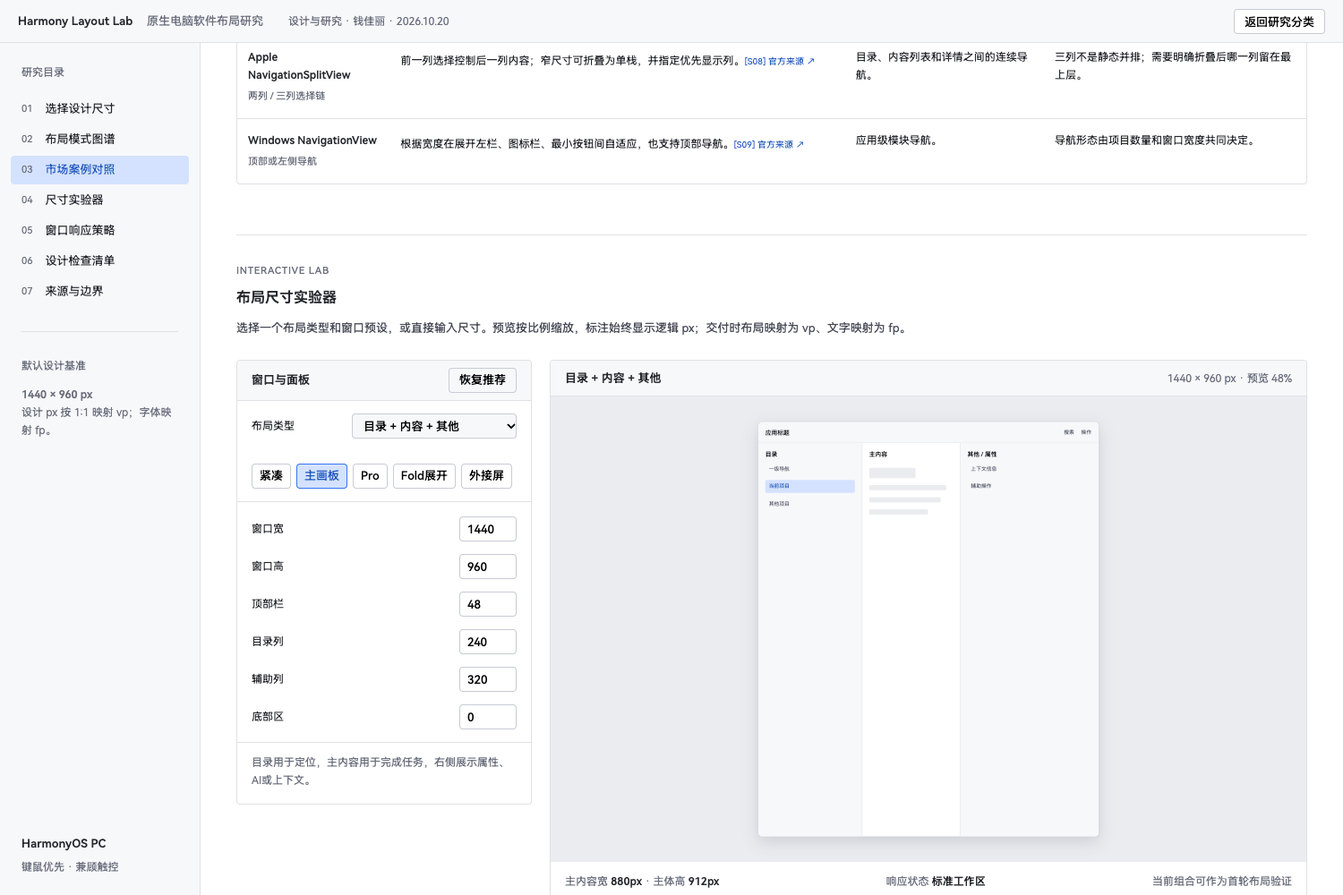
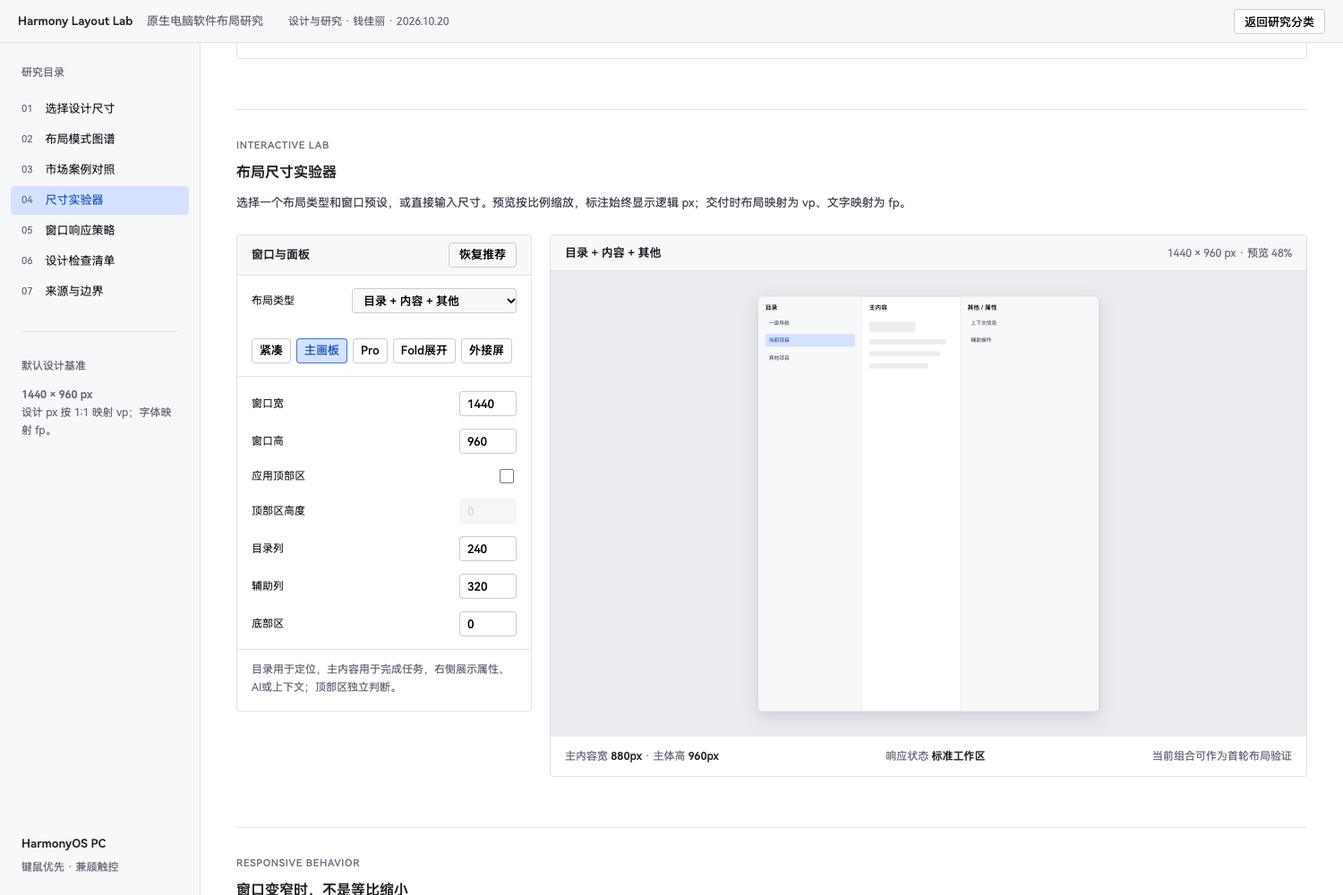
Make application top region optional in layout research

diff --git a/analysis/harmony-desktop-layouts/app.js b/analysis/harmony-desktop-layouts/app.js
@@ -3,22 +3,22 @@
   const R=window.LAYOUT_RESEARCH;
   const $=(s,e=document)=>e.querySelector(s);
   const esc=s=>String(s).replace(/[&<>"']/g,c=>({'&':'&amp;','<':'&lt;','>':'&gt;','"':'&quot;',"'":'&#39;'}[c]));
-  const wire=id=>`<div class="wire" data-layout="${id}" aria-hidden="true"><i class="wtop"></i><i class="wleft"></i><i class="wmain"></i><i class="wright"></i><i class="wbottom"></i></div>`;
+  const wire=p=>`<div class="wire${p.top==='shown'?'':' no-app-top'}" data-layout="${p.id}" aria-hidden="true"><i class="wtop"></i><i class="wleft"></i><i class="wmain"></i><i class="wright"></i><i class="wbottom"></i></div>`;
 
-  $('#patternGrid').innerHTML=R.patterns.map(p=>`<article class="pattern-card"><div class="pattern-visual">${wire(p.id)}</div><div class="pattern-copy"><header><h3>${esc(p.name)}</h3><span class="tag">${esc(p.tag)}</span></header><p><strong>常见：</strong>${esc(p.examples)}</p><p>${esc(p.use)}</p><p><strong>注意：</strong>${esc(p.risk)}</p></div></article>`).join('');
+  $('#patternGrid').innerHTML=R.patterns.map(p=>`<article class="pattern-card"><div class="pattern-visual">${wire(p)}</div><div class="pattern-copy"><header><h3>${esc(p.name)}</h3><span class="tag">${esc(p.tag)}</span></header><p><strong>常见：</strong>${esc(p.examples)}</p><p>${esc(p.use)}</p><p><strong>应用顶部区：</strong>${p.top==='shown'?'此模式示意开启':'默认不占整行，可按任务开启'}</p><p><strong>注意：</strong>${esc(p.risk)}</p></div></article>`).join('');
   const byId=Object.fromEntries(R.sources.map(s=>[s.id,s]));
   $('#comparisonRows').innerHTML=R.products.map(p=>`<tr><td><strong>${esc(p.name)}</strong><span class="evidence">${esc(p.type)}</span></td><td>${esc(p.structure)}<a class="source-pill" href="${byId[p.source].url}" target="_blank" rel="noreferrer">[${p.source}] 官方来源 ↗</a></td><td>${esc(p.task)}</td><td>${esc(p.lesson)}</td></tr>`).join('');
   $('#sourceList').innerHTML=R.sources.map(s=>`<article class="source-item"><span class="source-code">${s.id}</span><div><h3>${esc(s.title)} <small>${esc(s.org)}</small></h3><p>${esc(s.note)}</p></div><a class="button" href="${s.url}" target="_blank" rel="noreferrer">查看来源</a></article>`).join('');
 
   const defaults={
     top:{name:'顶部栏 + 内容',top:48,left:0,right:0,bottom:0},
-    left:{name:'左侧导航 + 内容',top:48,left:240,right:0,bottom:0},
-    list:{name:'目录 + 列表 + 详情',top:48,left:220,right:420,bottom:0},
-    three:{name:'目录 + 内容 + 其他',top:48,left:240,right:320,bottom:0},
+    left:{name:'左侧导航 + 内容',top:0,left:240,right:0,bottom:0},
+    list:{name:'目录 + 列表 + 详情',top:0,left:220,right:420,bottom:0},
+    three:{name:'目录 + 内容 + 其他',top:0,left:240,right:320,bottom:0},
     workbench:{name:'IDE 工作台',top:44,left:240,right:320,bottom:200},
-    canvas:{name:'画布 + 双侧面板',top:48,left:240,right:320,bottom:0},
+    canvas:{name:'画布 + 双侧面板',top:0,left:240,right:320,bottom:0},
     dashboard:{name:'顶部栏 + 卡片网格',top:48,left:0,right:0,bottom:0},
-    settings:{name:'设置目录 + 单列内容',top:48,left:220,right:0,bottom:0}
+    settings:{name:'设置目录 + 单列内容',top:0,left:220,right:0,bottom:0}
   };
   const type=$('#layoutType');
   type.innerHTML=R.patterns.map(p=>`<option value="${p.id}">${esc(p.name)}</option>`).join('');
@@ -26,15 +26,18 @@
   $('#presetButtons').innerHTML=R.presets.map(p=>`<button class="button" type="button" data-preset="${p.id}">${esc(p.name)}</button>`).join('');
 
   const fields={width:$('#windowWidth'),height:$('#windowHeight'),top:$('#topHeight'),left:$('#leftWidth'),right:$('#rightWidth'),bottom:$('#bottomHeight')};
+  const topEnabled=$('#topEnabled');
   const frame=$('#layoutFrame'),stage=$('#layoutStage');
-  let state={width:1440,height:960,top:48,left:240,right:320,bottom:0};
+  let state={width:1440,height:960,top:0,left:240,right:320,bottom:0};
+  let lastTop=48;
   function read(){Object.keys(fields).forEach(k=>state[k]=Math.max(0,Number(fields[k].value)||0));}
-  function write(){Object.keys(fields).forEach(k=>fields[k].value=state[k]);}
+  function write(){Object.keys(fields).forEach(k=>fields[k].value=state[k]);topEnabled.checked=state.top>0;fields.top.disabled=!topEnabled.checked;}
   function applyType(reset=true){
     const d=defaults[type.value];
     if(reset) Object.assign(state,{top:d.top,left:d.left,right:d.right,bottom:d.bottom});
     $('#previewTitle').textContent=d.name;
     frame.dataset.layout=type.value;
+    frame.querySelector('.lf-top').hidden=!state.top;
     frame.querySelector('.lf-left').hidden=!state.left;
     frame.querySelector('.lf-right').hidden=!state.right;
     frame.querySelector('.lf-bottom').hidden=!state.bottom;
@@ -46,7 +49,7 @@
     const center=Math.max(0,state.width-state.left-state.right);
     const body=Math.max(0,state.height-state.top-state.bottom);
     frame.style.setProperty('--ww',state.width);frame.style.setProperty('--wh',state.height);frame.style.setProperty('--th',state.top);frame.style.setProperty('--lw',state.left);frame.style.setProperty('--rw',state.right);frame.style.setProperty('--bh',state.bottom);
-    frame.querySelector('.lf-left').hidden=!state.left;frame.querySelector('.lf-right').hidden=!state.right;frame.querySelector('.lf-bottom').hidden=!state.bottom;
+    frame.querySelector('.lf-top').hidden=!state.top;frame.querySelector('.lf-left').hidden=!state.left;frame.querySelector('.lf-right').hidden=!state.right;frame.querySelector('.lf-bottom').hidden=!state.bottom;
     const scale=Math.min((stage.clientWidth-56)/state.width,(stage.clientHeight-56)/state.height,1);
     frame.style.transform=`scale(${Math.max(.15,scale)})`;
     $('#previewSize').textContent=`${state.width} × ${state.height} px · 预览 ${Math.round(scale*100)}%`;
@@ -59,9 +62,10 @@
     document.querySelectorAll('[data-preset]').forEach(b=>{const p=R.presets.find(x=>x.id===b.dataset.preset);b.setAttribute('aria-pressed',p.width===state.width&&p.height===state.height)});
   }
   type.addEventListener('change',()=>applyType(true));
-  Object.values(fields).forEach(i=>i.addEventListener('input',render));
+  Object.values(fields).forEach(i=>i.addEventListener('input',()=>{render();if(state.top>0)lastTop=state.top;write()}));
+  topEnabled.addEventListener('change',()=>{if(topEnabled.checked){state.top=lastTop||48}else{if(state.top>0)lastTop=state.top;state.top=0}write();render()});
   $('#presetButtons').addEventListener('click',e=>{const b=e.target.closest('[data-preset]');if(!b)return;const p=R.presets.find(x=>x.id===b.dataset.preset);state.width=p.width;state.height=p.height;write();render()});
-  $('#resetLayout').addEventListener('click',()=>{state={width:1440,height:960,top:48,left:240,right:320,bottom:0};type.value='three';applyType(false)});
+  $('#resetLayout').addEventListener('click',()=>{state={width:1440,height:960,top:0,left:240,right:320,bottom:0};lastTop=48;type.value='three';applyType(false)});
   window.addEventListener('resize',render);
   applyType(false);
 

diff --git a/analysis/harmony-desktop-layouts/index.html b/analysis/harmony-desktop-layouts/index.html
@@ -41,7 +41,7 @@
         <div class="page-heading">
           <p class="eyebrow">DESIGN RESEARCH / 03</p>
           <h1>鸿蒙电脑原生应用布局怎么选</h1>
-          <p>从窗口任务出发选择顶部栏、侧栏、内容区和辅助区；用一个主画板建立方案，用窗口断点验证变化。</p>
+          <p>先确定内容区是一列、两列还是三列，再判断是否需要应用顶部区；用一个主画板建立方案，用窗口断点验证变化。</p>
         </div>
         <div class="metadata"><span>8 类布局模式</span><span>6 个市场产品参考</span><span>尺寸可自定义</span></div>
 
@@ -57,10 +57,10 @@
           <a class="button primary" href="#lab">打开尺寸实验器</a>
         </div>
 
-        <h2 class="subheading">主画板的推荐骨架</h2>
-        <div class="base-anatomy sheet" aria-label="1440乘960布局尺寸示意">
+        <h2 class="subheading">主画板的推荐骨架（示意开启顶部区）</h2>
+        <div class="base-anatomy sheet" aria-label="1440乘960布局尺寸示意，应用顶部区可选">
           <div class="mini-window anatomy-window">
-            <div class="mini-top">顶部栏 48</div>
+            <div class="mini-top">可选应用顶部区 · 0 / 48</div>
             <div class="mini-body">
               <div class="mini-nav">目录<br><b>240</b></div>
               <div class="mini-main">主内容<br><b>自适应，建议不小于 640</b></div>
@@ -69,7 +69,8 @@
             <div class="mini-status">状态栏 24 · 可选</div>
           </div>
           <div class="base-notes">
-            <p><strong>顶部栏</strong><span>40–48 vp。承载窗口级标题、全局操作和少量高频命令。</span></p>
+            <p><strong>系统窗口区</strong><span>由系统窗口框架管理，不等于应用必须再放一条顶部栏。</span></p>
+            <p><strong>应用顶部区</strong><span>可选，关闭为 0；需要全局导航或命令时建议 40–48 vp，也可改用侧栏、局部或浮动工具条。</span></p>
             <p><strong>目录列</strong><span>默认 240 vp，可调范围 200–320；超过范围应考虑层级或内容问题。</span></p>
             <p><strong>主内容</strong><span>获得剩余空间，是布局中唯一必须持续伸缩的区域。</span></p>
             <p><strong>辅助列</strong><span>默认 320 vp，可调范围 280–420；窗口变窄时优先折叠。</span></p>
@@ -102,7 +103,8 @@
             <div class="control-grid">
               <label>窗口宽<input class="input short" id="windowWidth" type="number" min="800" max="2560" step="4"></label>
               <label>窗口高<input class="input short" id="windowHeight" type="number" min="600" max="1600" step="4"></label>
-              <label>顶部栏<input class="input short" id="topHeight" type="number" min="0" max="96" step="4"></label>
+              <label class="toggle-row">应用顶部区<input id="topEnabled" type="checkbox" aria-label="显示应用级导航或命令区"></label>
+              <label>顶部区高度<input class="input short" id="topHeight" type="number" min="0" max="96" step="4"></label>
               <label>目录列<input class="input short" id="leftWidth" type="number" min="0" max="480" step="4"></label>
               <label>辅助列<input class="input short" id="rightWidth" type="number" min="0" max="560" step="4"></label>
               <label>底部区<input class="input short" id="bottomHeight" type="number" min="0" max="480" step="4"></label>
@@ -139,7 +141,7 @@
       <section id="guidelines" class="chapter">
         <div class="section-intro"><span class="kicker">DESIGN CHECKLIST</span><h2>从选择布局到交付</h2></div>
         <div class="decision-grid">
-          <article class="sheet"><div class="sheet-head"><strong>1 · 看信息关系</strong></div><ul><li>页面之间平级且不多：顶部导航。</li><li>模块超过 5 个或层级较深：左侧导航。</li><li>选择上一列决定下一列：两列或三列。</li><li>编辑对象需要属性：主内容 + 右侧检查器。</li></ul></article>
+          <article class="sheet"><div class="sheet-head"><strong>1 · 看信息关系</strong></div><ul><li>页面之间平级且不多：可选择顶部导航。</li><li>模块超过 5 个或层级较深：左侧导航。</li><li>选择上一列决定下一列：两列或三列。</li><li>先定列关系，再独立判断是否需要应用顶部区。</li></ul></article>
           <article class="sheet"><div class="sheet-head"><strong>2 · 定区域优先级</strong></div><ul><li>主内容必须持续可见并获得剩余空间。</li><li>目录可折叠，但要保留恢复入口与状态。</li><li>右侧辅助区通常比目录更早折叠。</li><li>面板宽度可调时要设置合理最小值。</li></ul></article>
           <article class="sheet"><div class="sheet-head"><strong>3 · 做四档验证</strong></div><ul><li>1440×960：主设计。</li><li>1236×824：紧凑压力测试。</li><li>1648×1236：展开增值。</li><li>1920×1080：外接显示器。</li></ul></article>
           <article class="sheet"><div class="sheet-head"><strong>4 · 交付开发</strong></div><ul><li>设计 px 作为逻辑单位。</li><li>布局、间距、圆角映射为 vp。</li><li>文字映射为 fp。</li><li>说明断点行为，而不只标一张静态稿。</li></ul></article>
@@ -152,7 +154,7 @@
         <div class="downloads"><a class="button primary" href="RESEARCH.md" download>下载研究材料</a><a class="button" href="layout-tokens.json" download>下载布局参数</a></div>
       </section>
 
-      <footer class="page-footer"><span>钱佳丽 · Harmony Desktop Layouts</span><span>研究 v1.0 / 2026.10.20</span><a href="../../index.html#analysis">返回研究分类</a></footer>
+      <footer class="page-footer"><span>钱佳丽 · Harmony Desktop Layouts</span><span>研究 v1.1 / 2026.10.20</span><a href="../../index.html#analysis">返回研究分类</a></footer>
     </main>
   </div>
   <script src="data.js"></script>

diff --git a/analysis/harmony-desktop-layouts/data.js b/analysis/harmony-desktop-layouts/data.js
@@ -1,13 +1,13 @@
 window.LAYOUT_RESEARCH = {
   patterns: [
-    {id:'top',name:'顶部栏 + 内容',tag:'轻量导航',examples:'浏览器、媒体、轻量工具',use:'一级模块不超过约 5 个，内容需要最大横向空间。',risk:'功能增长后顶部容易拥挤；层级深时定位感不足。'},
-    {id:'left',name:'左侧导航 + 内容',tag:'模块型应用',examples:'设置、管理后台、知识工具',use:'模块较多、需要稳定位置或存在二级导航。',risk:'窄窗口占用主内容；需要折叠、覆盖或图标模式。'},
-    {id:'list',name:'目录 + 列表 + 详情',tag:'选择链',examples:'邮件、文件、联系人',use:'选择目录影响列表，选择列表影响详情；需要频繁切换对象。',risk:'三个区域都有最小宽度，紧凑窗口必须逐级收起。'},
-    {id:'three',name:'目录 + 内容 + 其他',tag:'三列工作区',examples:'Xcode、IDE、文档工具',use:'目录用于定位，主内容用于完成任务，右侧展示属性、AI或上下文。',risk:'辅助列不能和主内容争夺空间；必须支持隐藏和调整宽度。'},
-    {id:'workbench',name:'IDE 工作台',tag:'多面板',examples:'VS Code、IntelliJ IDEA、DevEco',use:'文件、编辑器、调试、终端和AI需要并行但可按任务重排。',risk:'区域数量最多；固定展示所有面板会迅速压垮编辑区。'},
-    {id:'canvas',name:'画布 + 双侧面板',tag:'创作工具',examples:'Figma、图片与视频编辑器',use:'画布是主对象；左侧管理层级和资源，右侧修改选中对象属性。',risk:'画布应持续最大化；无选中对象时右侧应降噪或自动收起。'},
-    {id:'dashboard',name:'顶部栏 + 卡片网格',tag:'概览型',examples:'数据看板、启动页、应用市场',use:'用户先扫描多组并列信息，再进入单一模块。',risk:'卡片数量不能代替信息架构；窗口变化需要改列数而非缩小卡片。'},
-    {id:'settings',name:'设置目录 + 单列内容',tag:'配置型',examples:'系统设置、应用偏好',use:'左侧用于分类，右侧从上到下完成配置；内容保持可读最大宽度。',risk:'内容区过宽会降低扫描效率；相关设置需要成组。'}
+    {id:'top',name:'顶部导航 + 内容',tag:'轻量导航',top:'shown',examples:'浏览器、媒体、轻量工具',use:'一级模块不超过约 5 个，且应用确实需要全局顶部导航。',risk:'功能增长后顶部容易拥挤；层级深时定位感不足。'},
+    {id:'left',name:'左侧导航 + 内容',tag:'模块型应用',top:'hidden',examples:'设置、管理后台、知识工具',use:'模块较多、需要稳定位置或存在二级导航；应用顶部区按命令需要选择。',risk:'窄窗口占用主内容；需要折叠、覆盖或图标模式。'},
+    {id:'list',name:'目录 + 列表 + 详情',tag:'选择链',top:'hidden',examples:'邮件、文件、联系人',use:'选择目录影响列表，选择列表影响详情；顶部命令可放在各列内部。',risk:'三个区域都有最小宽度，紧凑窗口必须逐级收起。'},
+    {id:'three',name:'目录 + 内容 + 其他',tag:'三列工作区',top:'hidden',examples:'Xcode、IDE、文档工具',use:'目录用于定位，主内容用于完成任务，右侧展示属性、AI或上下文；顶部区独立判断。',risk:'辅助列不能和主内容争夺空间；必须支持隐藏和调整宽度。'},
+    {id:'workbench',name:'IDE 工作台',tag:'多面板',top:'shown',examples:'VS Code、IntelliJ IDEA、DevEco',use:'文件、编辑器、调试、终端和AI需要并行；顶部命令区可随产品结构保留或精简。',risk:'区域数量最多；固定展示所有面板会迅速压垮编辑区。'},
+    {id:'canvas',name:'画布 + 双侧面板',tag:'创作工具',top:'hidden',examples:'Figma、图片与视频编辑器',use:'画布是主对象；命令可采用浮动工具条或局部工具区，不必占满顶部。',risk:'画布应持续最大化；无选中对象时右侧应降噪或自动收起。'},
+    {id:'dashboard',name:'顶部导航 + 卡片网格',tag:'概览型',top:'shown',examples:'数据看板、启动页、应用市场',use:'用户先扫描多组并列信息，再通过顶部导航进入单一模块。',risk:'卡片数量不能代替信息架构；窗口变化需要改列数而非缩小卡片。'},
+    {id:'settings',name:'设置目录 + 单列内容',tag:'配置型',top:'hidden',examples:'系统设置、应用偏好',use:'左侧用于分类，右侧从上到下完成配置；通常不需要额外应用顶部区。',risk:'内容区过宽会降低扫描效率；相关设置需要成组。'}
   ],
   products: [
     {name:'VS Code',type:'IDE 工作台',structure:'Activity Bar、Primary / Secondary Side Bar、Editor、Panel、Status Bar；区域可隐藏和移动。',task:'代码编辑与多种工具视图并行。',lesson:'把右侧AI视为可切换辅助区；底部面板可移动，不绑定唯一方向。',source:'S04'},

diff --git a/analysis/harmony-desktop-layouts/styles.css b/analysis/harmony-desktop-layouts/styles.css
@@ -2,3 +2,14 @@
 @media(max-width:1180px){.hero-answer{grid-template-columns:1fr 1fr}.hero-answer>div:nth-child(2){border-right:0}.base-anatomy{grid-template-columns:1fr}.pattern-card{grid-template-columns:170px minmax(0,1fr)}.lab-shell{grid-template-columns:280px minmax(0,1fr)}.responsive-flow{grid-template-columns:1fr 1fr}.mini-body{grid-template-columns:200px minmax(0,1fr) 280px}}
 @media(max-width:900px){.hero-answer{grid-template-columns:1fr 1fr}.pattern-grid{grid-template-columns:1fr}.lab-shell{grid-template-columns:1fr}.lab-controls{display:grid;grid-template-columns:1fr 1fr}.lab-controls .sheet-head,.lab-controls .preset-row,.lab-controls .caption{grid-column:1/-1}.control-grid{display:grid;grid-template-columns:1fr 1fr;grid-column:1/-1}.mini-body{grid-template-columns:180px minmax(0,1fr) 220px}}
 @media(max-width:640px){.hero-answer{grid-template-columns:1fr}.hero-answer>div{border-right:0;border-bottom:1px solid var(--layout-line)}.base-anatomy{padding:14px}.mini-body{grid-template-columns:96px minmax(0,1fr)}.mini-side{display:none}.pattern-card{grid-template-columns:1fr}.pattern-visual{border-right:0;border-bottom:1px solid var(--layout-line)}.wire{max-width:240px;margin:auto}.lab-controls{display:block}.control-grid{display:block}.stage{height:400px;padding:14px}.responsive-flow,.decision-grid{grid-template-columns:1fr}.source-item{grid-template-columns:36px minmax(0,1fr)}.source-item>a{grid-column:2}.hero-answer strong{font-size:22px}.recommendation{align-items:flex-start}}
+
+/* 应用顶部区是独立可选维度，不由内容列数决定。 */
+.mini-top{border-bottom-style:dashed;color:var(--layout-muted)}
+.wire.no-app-top .wtop{display:none}
+.wire.no-app-top[data-layout=left],.wire.no-app-top[data-layout=settings]{grid-template:"left main main" 1fr/38px 1fr 1fr}
+.wire.no-app-top[data-layout=list]{grid-template:"left main right" 1fr/38px 54px 1fr}
+.wire.no-app-top[data-layout=three]{grid-template:"left main right" 1fr/44px 1fr 52px}
+.wire.no-app-top[data-layout=canvas]{grid-template:"left main right" 1fr/42px 1fr 48px}
+.toggle-row input{width:16px;height:16px;accent-color:var(--layout-blue)}
+.control-grid input:disabled{opacity:.45;cursor:not-allowed}
+.layout-frame [hidden]{display:none!important}

diff --git a/site/catalog.js b/site/catalog.js
@@ -363,9 +363,9 @@ window.DEVECO_CATALOG = {
       note: '对内汇报与对外协同共用的事实基础：以开发者证据推动方案，不以设计观点推动方案。',
       items: [
         {
-          title: '鸿蒙电脑原生应用布局研究：从顶部栏到三列工作区',
+          title: '鸿蒙电脑原生应用布局研究：窗口结构与多列工作区',
           author: '钱佳丽', subtitle: 'Desktop Layout Atlas · Responsive Window Lab',
-          desc: '钱佳丽：整理顶部栏、左侧导航、列表详情、三列工作区、IDE、画布、看板和设置等8类主流桌面布局；对照VS Code、IntelliJ IDEA、Xcode、Figma及系统导航模式。以1440×960为主画板，支持自定义窗口和面板尺寸。',
+          desc: '钱佳丽：整理顶部导航、左侧导航、列表详情、三列工作区、IDE、画布、看板和设置等8类主流桌面布局；把内容列结构与应用顶部区拆成独立维度。以1440×960为主画板，支持自定义窗口和面板尺寸。',
           view: 'ready', date: '2026-10-20', href: 'analysis/harmony-desktop-layouts/index.html',
           links: [
             { label: '布局图谱', href: 'analysis/harmony-desktop-layouts/index.html#patterns' },

diff --git a/index.html b/index.html
@@ -66,7 +66,7 @@
   </footer>
 </div>
 
-<script src="site/catalog.js?v=20261020-layout-v1"></script>
+<script src="site/catalog.js?v=20261020-layout-v2"></script>
 <script src="site/launcher.js?v=20261015-tree"></script>
 </body>
 </html>

diff --git a/analysis/harmony-desktop-layouts/RESEARCH.md b/analysis/harmony-desktop-layouts/RESEARCH.md
@@ -1,13 +1,13 @@
 # 鸿蒙电脑原生应用布局研究
 
 研究与方案设计：钱佳丽  
-版本：1.0 · 2026-10-20
+版本：1.1 · 2026-10-20
 
 ## 结论
 
 设计鸿蒙电脑原生应用时，不应只选择一个物理屏幕分辨率，而应建立一个逻辑主画板和一组窗口变化规则。推荐以 **1440×960 px** 作为主设计稿；设计 px 按 1:1 映射布局 vp，文字映射 fp。至少同时验证 1236×824、1648×1236 和 1920×1080。
 
-布局选择取决于信息关系：平级模块少时使用顶部导航；模块多或层级深时使用左侧导航；前一列选择决定后一列时使用列表详情或三列选择链；创作工具采用画布加双侧面板；IDE 采用可重排的工作台。三列布局的第三列应是上下文辅助区，窗口变窄时优先折叠，不能持续挤压主内容。
+布局选择应拆成两个维度。先按信息关系确定内容区是一列、两列、三列还是可重排工作台，再独立判断是否需要应用顶部区。系统窗口标题与控制区不等于应用顶部栏；应用也可以把命令放进侧栏、内容区局部工具条或浮动工具条。三列布局的第三列应是上下文辅助区，窗口变窄时优先折叠，不能持续挤压主内容。
 
 ## 推荐画板
 
@@ -25,7 +25,7 @@
 
 | 区域 | 默认 | 建议范围 | 说明 |
 |---|---:|---:|---|
-| 顶部栏 | 48 | 40–48 vp | 窗口标题、全局操作、高频命令 |
+| 应用顶部区 | 关闭（0） | 使用时 40–48 vp | 可选；仅承载确有必要的全局导航或命令 |
 | 目录列 | 240 | 200–320 vp | 导航、项目树、页面或资源层级 |
 | 主内容 | 自适应 | 不低于约640 vp | 始终获得剩余空间 |
 | 辅助列 | 320 | 280–420 vp | 属性、详情、AI、上下文信息 |
@@ -34,14 +34,16 @@
 
 以上为方案候选，不是鸿蒙官方统一尺寸。具体产品需要结合任务、内容长度、最小窗口与真实控件验证。
 
+系统窗口框架由系统管理，不计入这里的应用顶部区。应用顶部区的存在与内容列数没有绑定关系：三列可以从窗口顶部直接开始，单列页面也可以因为全局导航而使用顶部区。
+
 ## 八类布局模式
 
 1. **顶部栏 + 内容**：适合少量平级模块和内容优先工具。
-2. **左侧导航 + 内容**：适合模块多、定位需要稳定的应用。
+2. **左侧导航 + 内容**：适合模块多、定位需要稳定的应用，顶部区按命令需要选择。
 3. **目录 + 列表 + 详情**：适合邮件、联系人和文件管理等选择链。
-4. **目录 + 内容 + 其他**：适合需要上下文属性或AI辅助的复杂应用。
+4. **目录 + 内容 + 其他**：适合需要上下文属性或AI辅助的复杂应用，默认不要求顶部区。
 5. **IDE 工作台**：中央编辑区周围停靠可重排工具窗。
-6. **画布 + 双侧面板**：左侧管理层级，右侧编辑选中对象属性。
+6. **画布 + 双侧面板**：左侧管理层级，右侧编辑选中对象属性；工具可浮动或局部呈现。
 7. **顶部栏 + 卡片网格**：适合概览、启动页和数据看板。
 8. **设置目录 + 单列内容**：适合配置任务，内容区保持可读最大宽度。
 

diff --git a/README.md b/README.md
@@ -11,7 +11,7 @@
 
 ## 新增研究 · 钱佳丽
 
-[鸿蒙电脑原生应用布局研究](analysis/harmony-desktop-layouts/index.html)整理了顶部栏、左侧导航、列表详情、三列工作区、IDE、画布、看板和设置等 8 类主流桌面布局；以 1440×960 为主画板，提供可自定义窗口与面板尺寸的[布局实验器](analysis/harmony-desktop-layouts/index.html#lab)及[完整研究材料](analysis/harmony-desktop-layouts/RESEARCH.md)。
+[鸿蒙电脑原生应用布局研究](analysis/harmony-desktop-layouts/index.html)整理了顶部导航、左侧导航、列表详情、三列工作区、IDE、画布、看板和设置等 8 类主流桌面布局，并将“内容列结构”与“是否需要应用顶部区”作为独立维度；以 1440×960 为主画板，提供可自定义窗口与面板尺寸的[布局实验器](analysis/harmony-desktop-layouts/index.html#lab)及[完整研究材料](analysis/harmony-desktop-layouts/RESEARCH.md)。
 
 [IDE 文件树体验研究](analysis/ide-tree-lab/index.html)已收录在启动页「分析与研究」。包含竞品对照、20 / 20 / 16 参数方案、4px 图文间距、IDE 交互效果及截图；[研究材料](analysis/ide-tree-lab/RESEARCH.md)署名钱佳丽。原仓库其他材料保留原作者归属，原启动页见 [Cinnnnnnndy / DevEco](https://cinnnnnnndy.github.io/DevEco/)。
 

diff --git a/analysis/harmony-desktop-layouts/VALIDATION.md b/analysis/harmony-desktop-layouts/VALIDATION.md
@@ -3,10 +3,11 @@
 日期：2026-10-20。环境：本机 Chrome / Playwright。
 
 - 页面展示8类布局模式、6个市场产品结构对照和11项来源。
-- 默认三列布局为1440×960，目录240、辅助列320，计算出的主内容宽为880。
+- 默认三列布局为1440×960，应用顶部区关闭，目录240、辅助列320，计算出的主内容宽为880、主体高为960。
 - 紧凑预设1236×824时主内容宽676；辅助列手动增至420后能提示主内容低于640。
-- 切换“顶部栏+内容”会将左右列设为0并隐藏；“恢复推荐”回到三列1440×960。
-- 自定义窗口宽高、顶部栏、目录列、辅助列和底部区均可即时更新预览与判断。
+- 应用顶部区可独立开启或关闭：开启后默认48，关闭后高度为0；切换布局会采用对应模式的建议状态。
+- 切换“顶部导航+内容”会开启顶部区并将左右列设为0；“恢复推荐”回到无顶部区的三列1440×960。
+- 自定义窗口宽高、顶部区、目录列、辅助列和底部区均可即时更新预览与判断。
 - 390×844视口下，七个章节均未出现整页横向溢出；宽表使用局部滚动。
 - 启动页“分析与研究”出现新研究卡片；作者字段为钱佳丽。
 - 页面未捕获JavaScript异常或HTTP资源错误；脚本语法和git diff空白检查通过。

diff --git a/analysis/harmony-desktop-layouts/README.md b/analysis/harmony-desktop-layouts/README.md
@@ -1,8 +1,8 @@
 # 鸿蒙电脑原生应用布局研究
 
-钱佳丽 · 2026-10-20 · v1.0
+钱佳丽 · 2026-10-20 · v1.1
 
-面向鸿蒙电脑原生软件，整理顶部栏、左右导航、两列、三列、IDE 工作台、画布、卡片看板和设置页面等主流桌面布局。默认设计画板为 1440×960 px，支持在网页中自定义窗口及面板尺寸。
+面向鸿蒙电脑原生软件，整理顶部导航、左右导航、两列、三列、IDE 工作台、画布、卡片看板和设置页面等主流桌面布局。内容列结构与应用顶部区是两个独立维度，不默认给每种布局增加顶部栏。默认设计画板为 1440×960 px，支持在网页中自定义窗口、顶部区及面板尺寸。
 
 - [交互研究页面](index.html)
 - [完整研究材料](RESEARCH.md)
